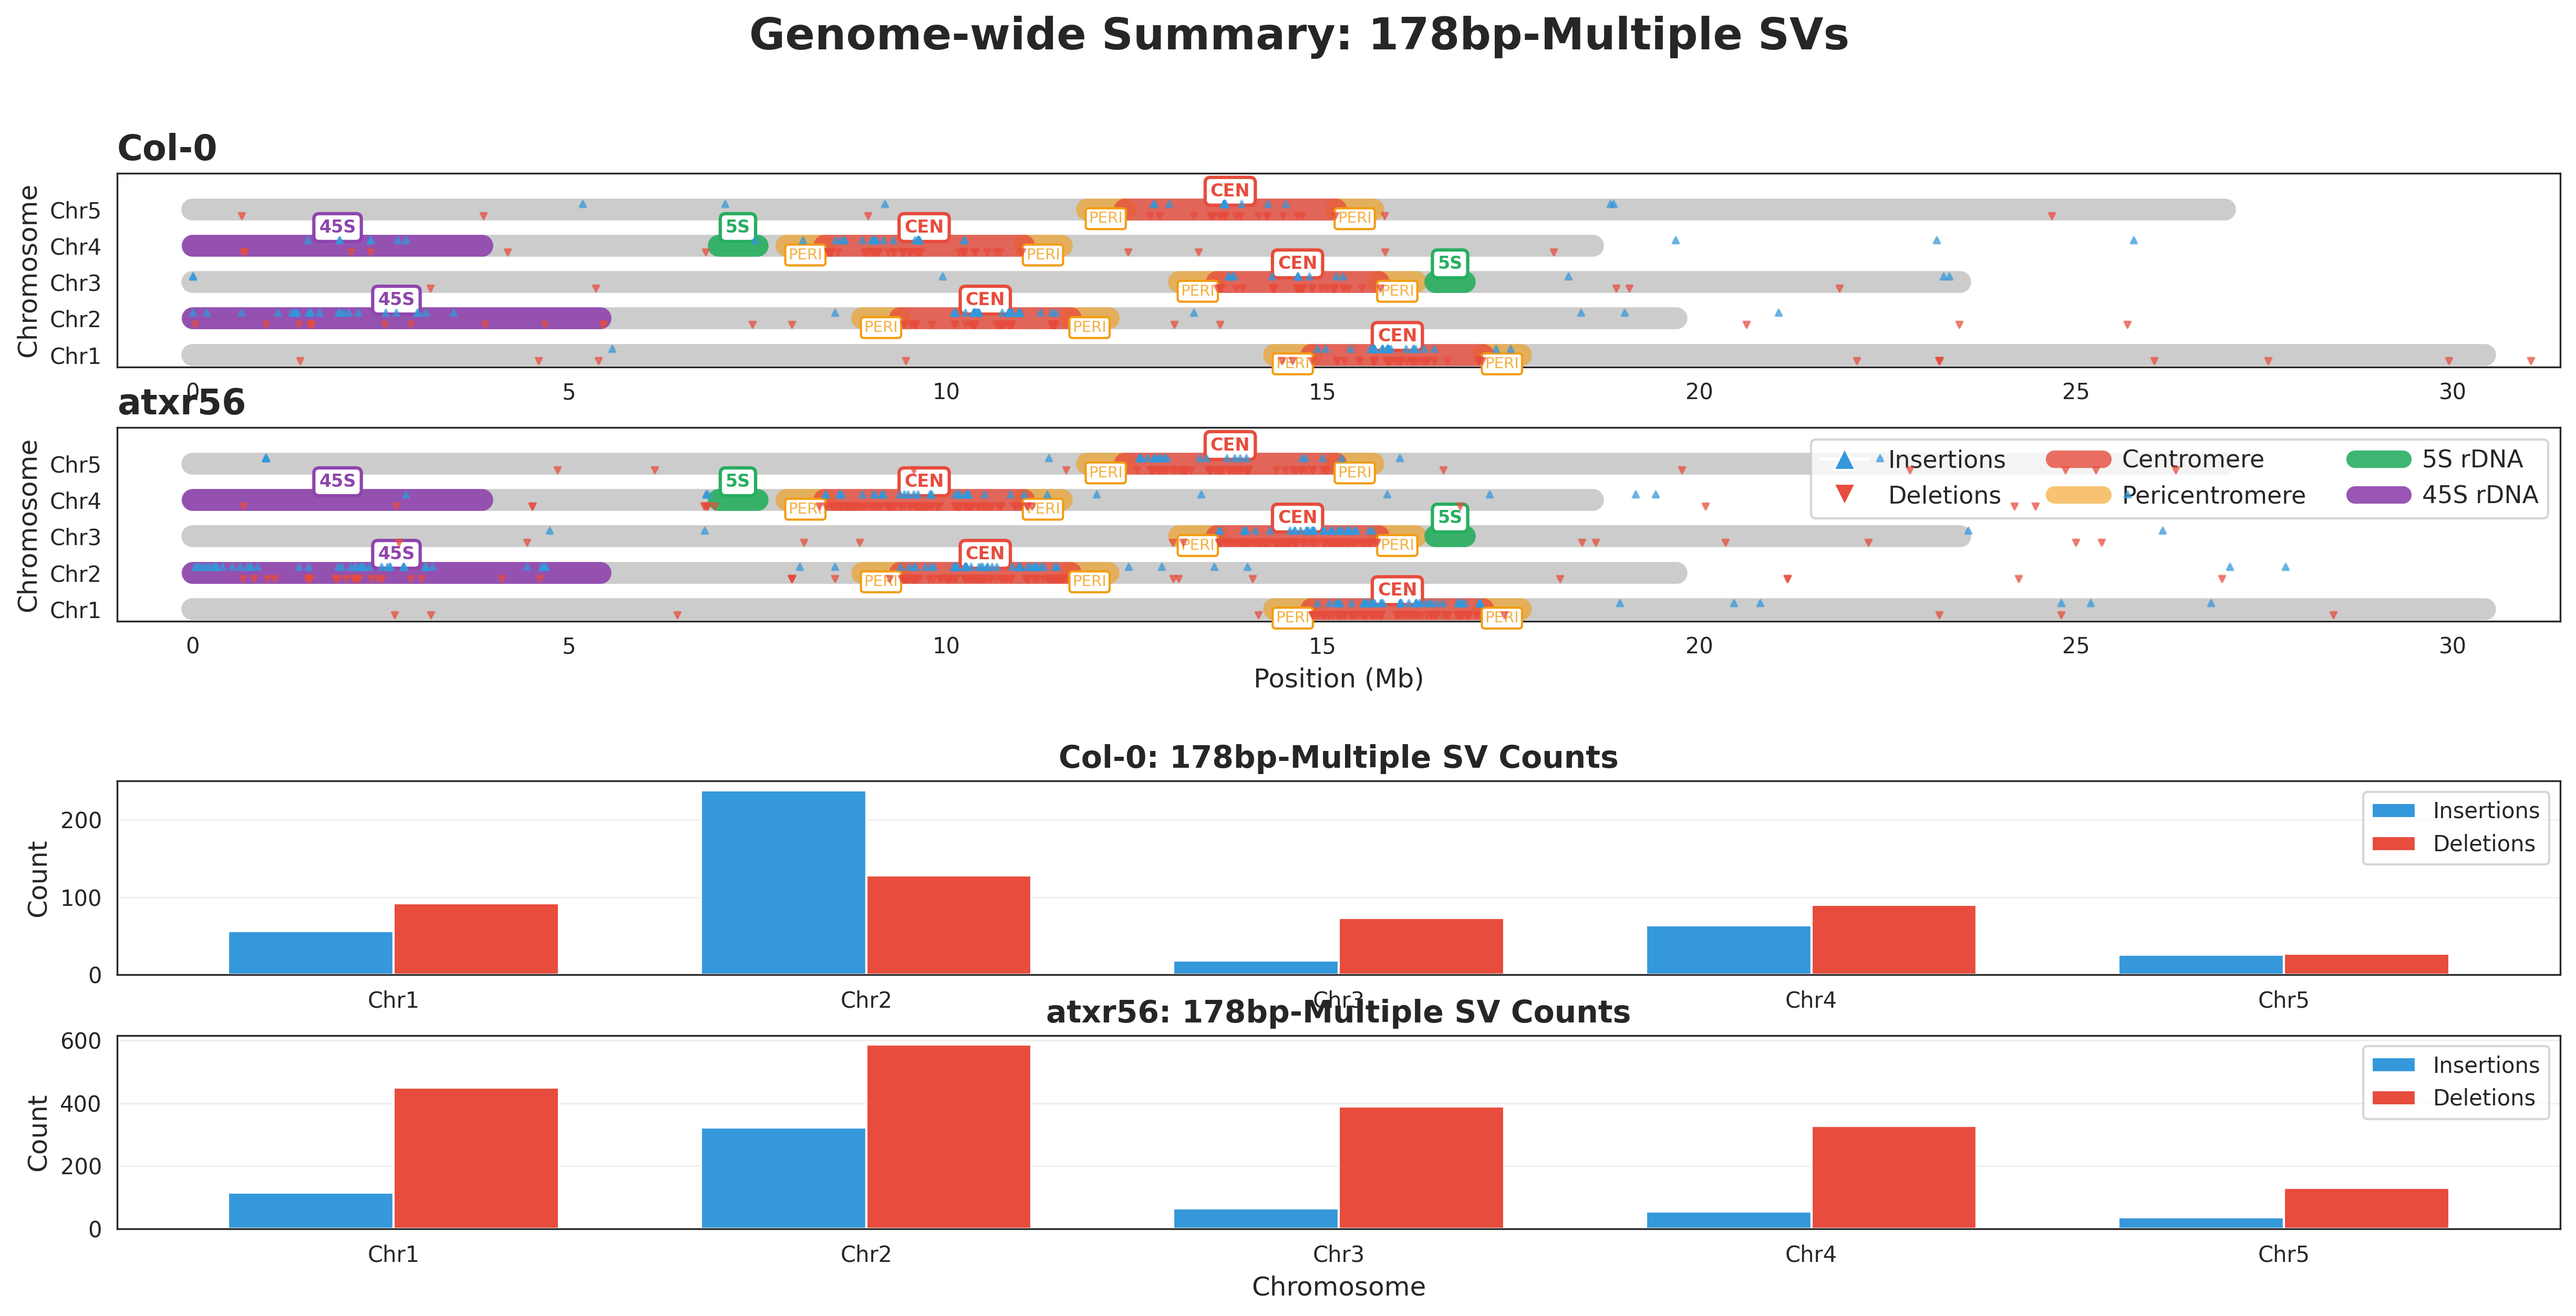
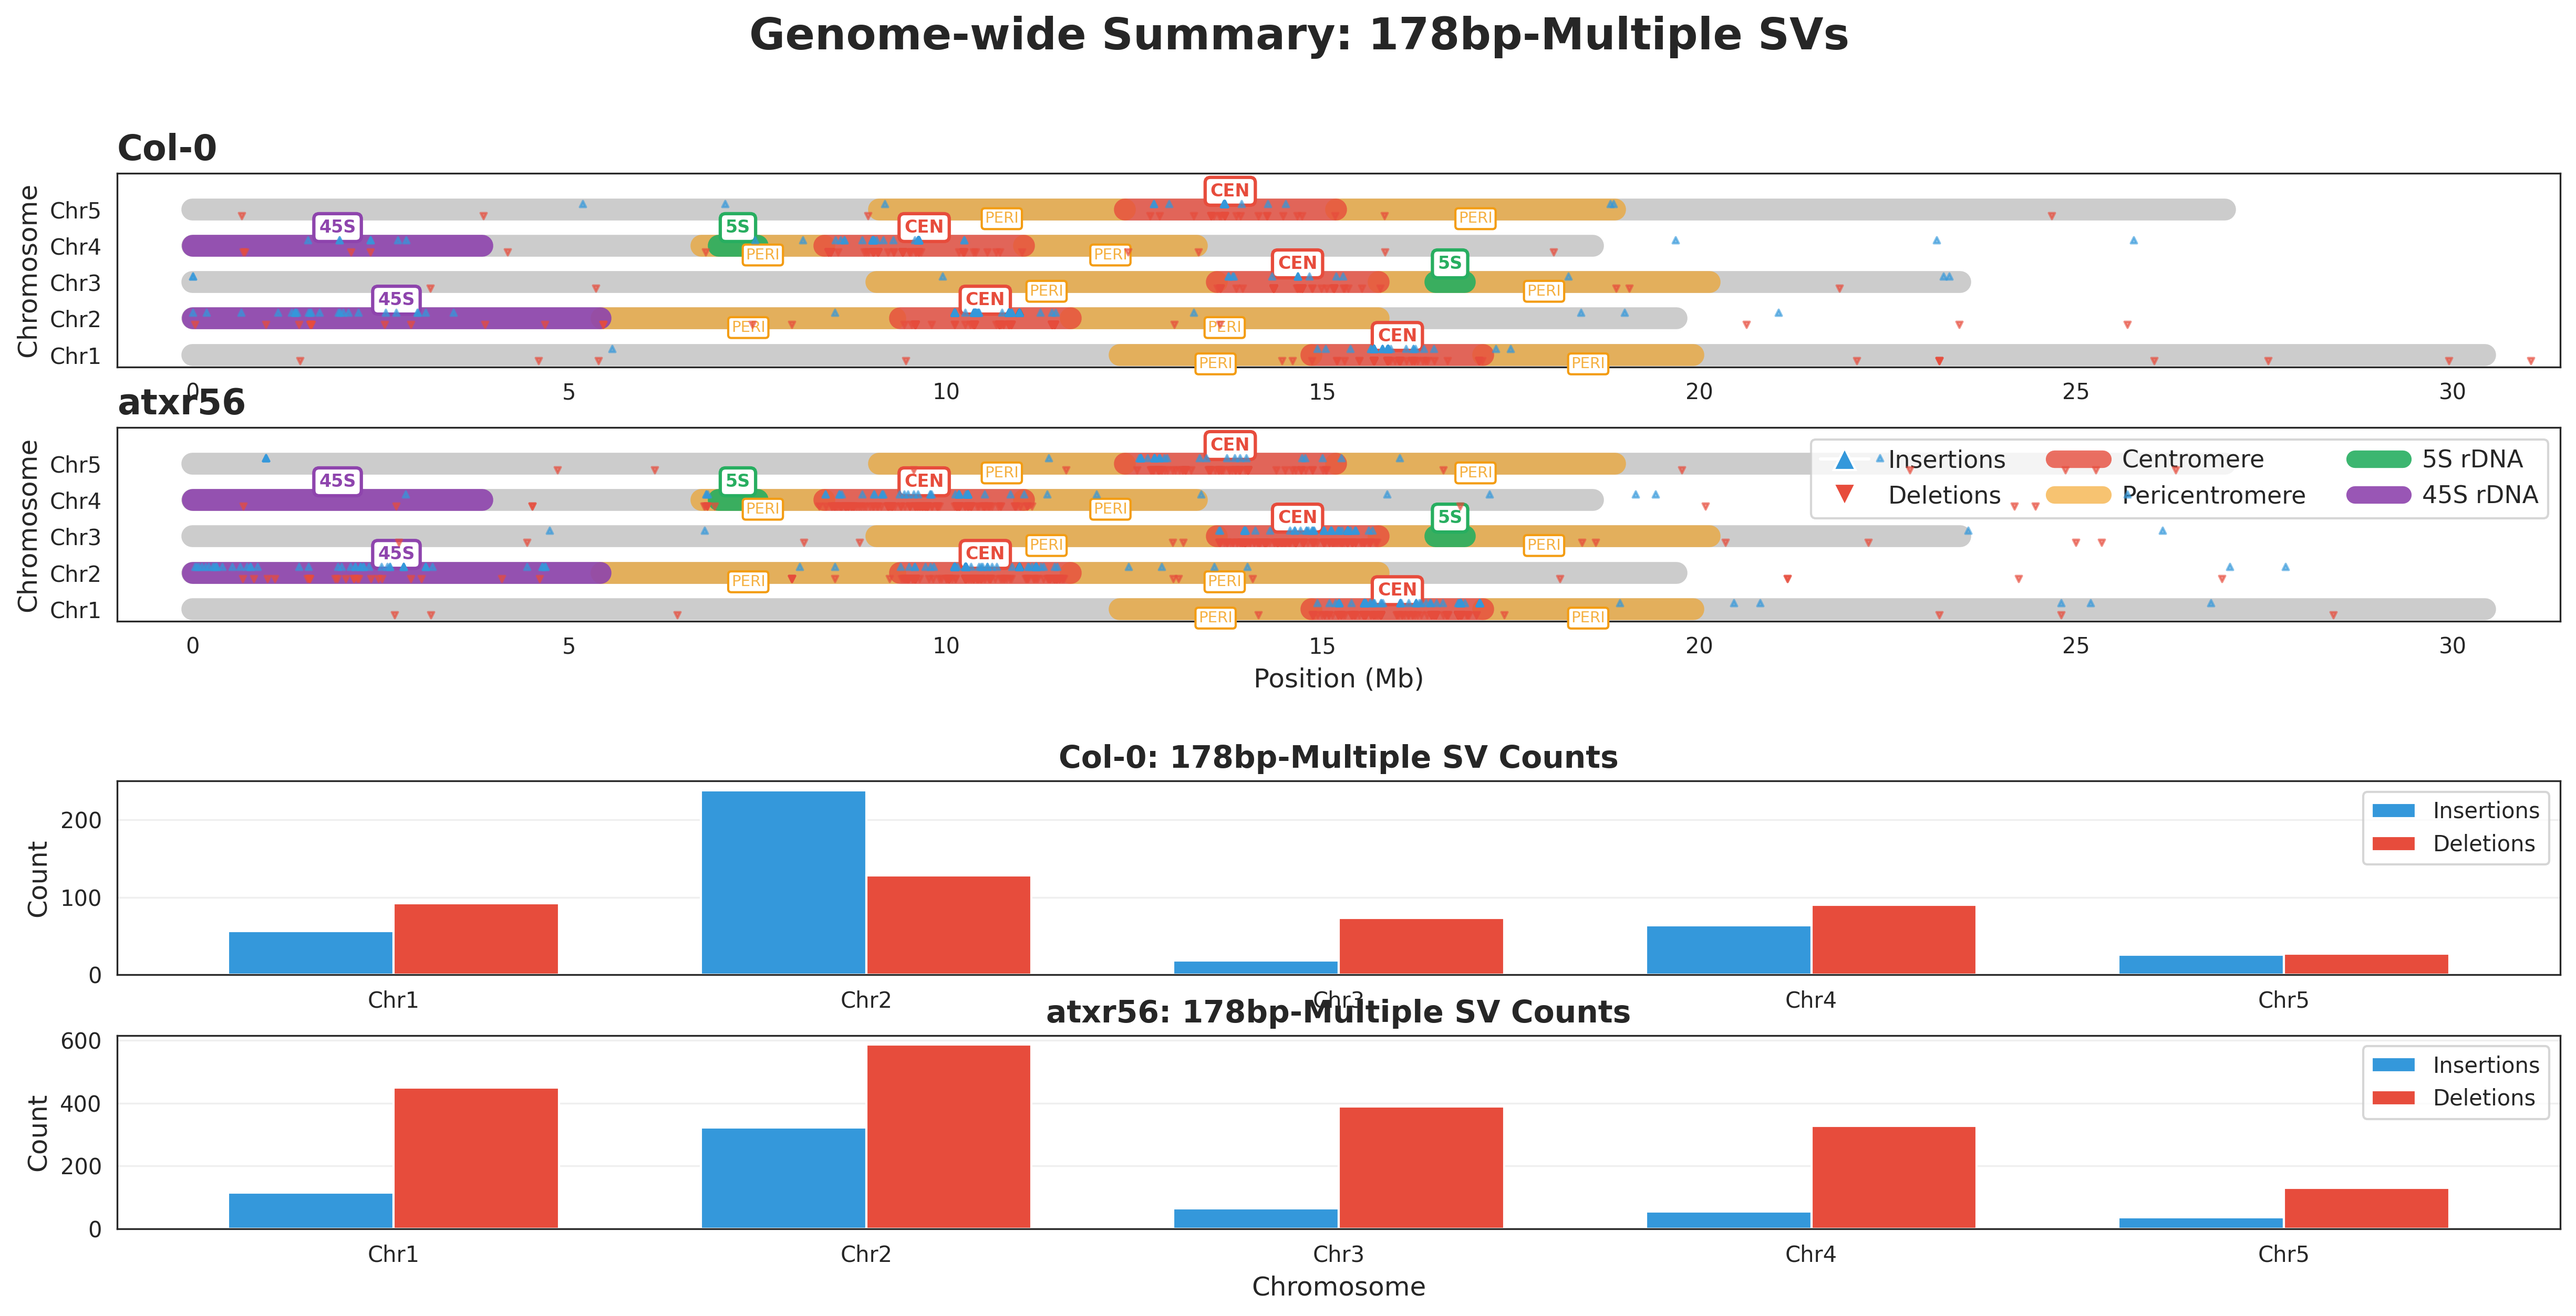
Update: Use actual pericentromere coordinates from BED file
- Modified plot_genome_wide_ideogram.py to load pericentromeres from BED
- Added load_pericentromeres() function with RefSeq ID mapping
- Pericentromeres now shown at their true genomic positions
- Updated config to include pericentromere_bed option
- Regenerated example ideogram with correct coordinates
- Fallback to extension-based calculation if BED not provided

Now shows variable-sized pericentromeres instead of uniform ±500kb

Changed region(s): [[0.2184, 0.3424, 0.6865, 0.498], [0.2184, 0.1245, 0.6865, 0.2801]]

diff --git a/scripts/visualization/plot_genome_wide_ideogram.py b/scripts/visualization/plot_genome_wide_ideogram.py
@@ -51,6 +51,41 @@ def load_bed_regions(bed_file):
     return regions
 
 
+def load_pericentromeres(bed_file):
+    """Load pericentromere coordinates from BED file, grouped by chromosome."""
+    peri_dict = {}
+    if not os.path.exists(bed_file):
+        print(f"Warning: Pericentromere BED file not found: {bed_file}")
+        return peri_dict
+
+    # Mapping RefSeq accession IDs to common chromosome names
+    chr_map = {
+        'CP116280.1': 'Chr1',
+        'CP116281.2': 'Chr2',
+        'CP116282.1': 'Chr3',
+        'CP116283.2': 'Chr4',
+        'CP116284.1': 'Chr5',
+    }
+
+    with open(bed_file, 'r') as f:
+        for line in f:
+            if line.startswith('#') or not line.strip():
+                continue
+            fields = line.strip().split('\t')
+            if len(fields) >= 3:
+                accession = fields[0]
+                # Convert RefSeq ID to common name if needed
+                chrom = chr_map.get(accession, accession)
+                start = int(fields[1])
+                end = int(fields[2])
+
+                if chrom not in peri_dict:
+                    peri_dict[chrom] = []
+                peri_dict[chrom].append((start, end))
+
+    return peri_dict
+
+
 def plot_genome_wide_ideogram(sv_catalogs, sample_names, config, output_file):
     """
     Generate genome-wide ideogram plot.
@@ -77,7 +112,21 @@ def plot_genome_wide_ideogram(sv_catalogs, sample_names, config, output_file):
     chroms = config['genome']['chromosomes']
     chrom_lengths = config['genome']['lengths']
     centromeres = config['genome']['centromeres']
-    peri_extension = config['pericentromere_extension']
+
+    # Load pericentromere regions from BED file if provided
+    if 'pericentromere_bed' in config and config['pericentromere_bed']:
+        pericentromeres = load_pericentromeres(config['pericentromere_bed'])
+    else:
+        # Fallback to extension-based calculation if BED not provided
+        peri_extension = config.get('pericentromere_extension', 500000)
+        pericentromeres = {}
+        for chrom in chroms:
+            cen_start, cen_end = centromeres[chrom]
+            chrom_len = chrom_lengths[chrom]
+            pericentromeres[chrom] = [
+                (max(0, cen_start - peri_extension), cen_start),
+                (cen_end, min(chrom_len, cen_end + peri_extension))
+            ]
 
     # Load rDNA regions
     rdna_5s = load_bed_regions(config['rdna_regions']['5s'])
@@ -115,20 +164,17 @@ def plot_genome_wide_ideogram(sv_catalogs, sample_names, config, output_file):
             y_pos = i * chrom_spacing
             chrom_len = chrom_lengths[chrom]
             cen_start, cen_end = centromeres[chrom]
-            peri_start_left = max(0, cen_start - peri_extension)
-            peri_end_right = min(chrom_len, cen_end + peri_extension)
 
             # Draw chromosome backbone
             ax.plot([0, chrom_len/1e6], [y_pos, y_pos], 'k-',
                    linewidth=10, solid_capstyle='round', alpha=0.2)
 
-            # Draw pericentromeres
-            ax.plot([peri_start_left/1e6, cen_start/1e6], [y_pos, y_pos],
-                   color=config['visualization']['colors']['pericentromere'],
-                   linewidth=10, solid_capstyle='round', alpha=0.6)
-            ax.plot([cen_end/1e6, peri_end_right/1e6], [y_pos, y_pos],
-                   color=config['visualization']['colors']['pericentromere'],
-                   linewidth=10, solid_capstyle='round', alpha=0.6)
+            # Draw pericentromeres from loaded regions
+            if chrom in pericentromeres:
+                for peri_start, peri_end in pericentromeres[chrom]:
+                    ax.plot([peri_start/1e6, peri_end/1e6], [y_pos, y_pos],
+                           color=config['visualization']['colors']['pericentromere'],
+                           linewidth=10, solid_capstyle='round', alpha=0.6)
 
             # Draw centromere
             ax.plot([cen_start/1e6, cen_end/1e6], [y_pos, y_pos],
@@ -172,23 +218,17 @@ def plot_genome_wide_ideogram(sv_catalogs, sample_names, config, output_file):
                            edgecolor=config['visualization']['colors']['centromere'],
                            linewidth=1.5))
 
-            # Add pericentromere labels
-            peri_left_mid = (peri_start_left + cen_start) / 2 / 1e6
-            peri_right_mid = (cen_end + peri_end_right) / 2 / 1e6
-            ax.text(peri_left_mid, y_pos - 0.55, 'PERI', fontsize=7, ha='center',
-                   fontweight='normal',
-                   color=config['visualization']['colors']['pericentromere'],
-                   alpha=0.8,
-                   bbox=dict(boxstyle='round,pad=0.2', facecolor='white',
-                           edgecolor=config['visualization']['colors']['pericentromere'],
-                           linewidth=1))
-            ax.text(peri_right_mid, y_pos - 0.55, 'PERI', fontsize=7, ha='center',
-                   fontweight='normal',
-                   color=config['visualization']['colors']['pericentromere'],
-                   alpha=0.8,
-                   bbox=dict(boxstyle='round,pad=0.2', facecolor='white',
-                           edgecolor=config['visualization']['colors']['pericentromere'],
-                           linewidth=1))
+            # Add pericentromere labels at actual region midpoints
+            if chrom in pericentromeres:
+                for peri_start, peri_end in pericentromeres[chrom]:
+                    peri_mid = (peri_start + peri_end) / 2 / 1e6
+                    ax.text(peri_mid, y_pos - 0.55, 'PERI', fontsize=7, ha='center',
+                           fontweight='normal',
+                           color=config['visualization']['colors']['pericentromere'],
+                           alpha=0.8,
+                           bbox=dict(boxstyle='round,pad=0.2', facecolor='white',
+                                   edgecolor=config['visualization']['colors']['pericentromere'],
+                                   linewidth=1))
 
             # Plot SVs
             sample_chrom = df[(df['chromosome'] == chrom) & (df['is_178_multiple'] == True)]
